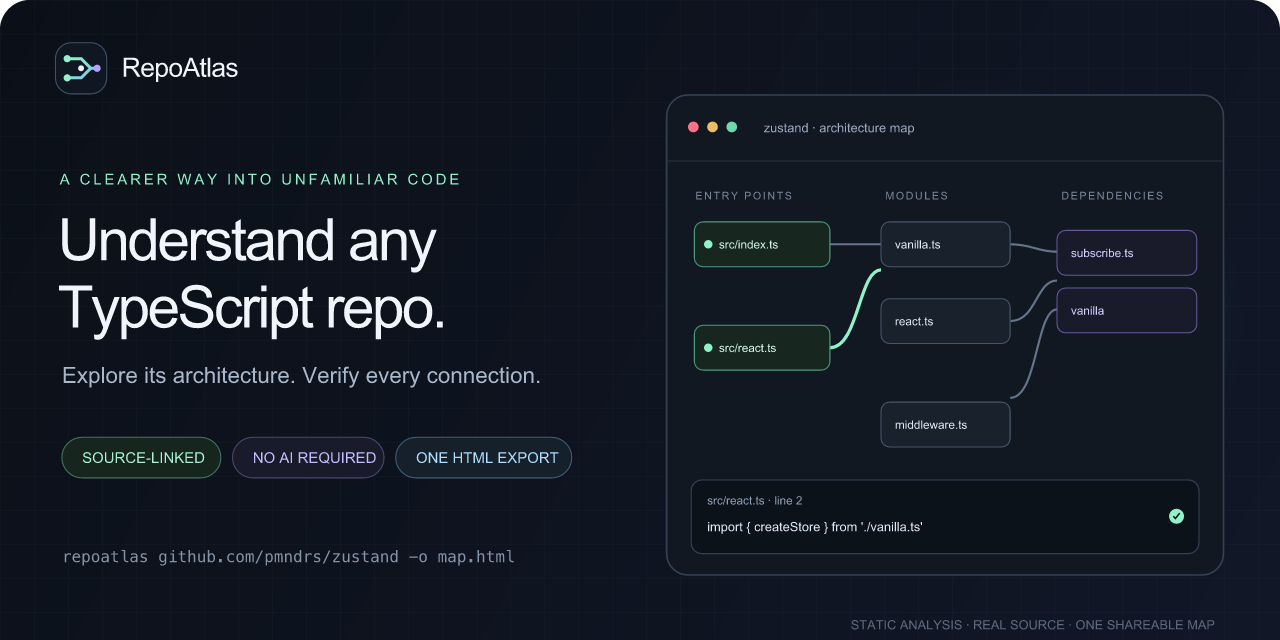
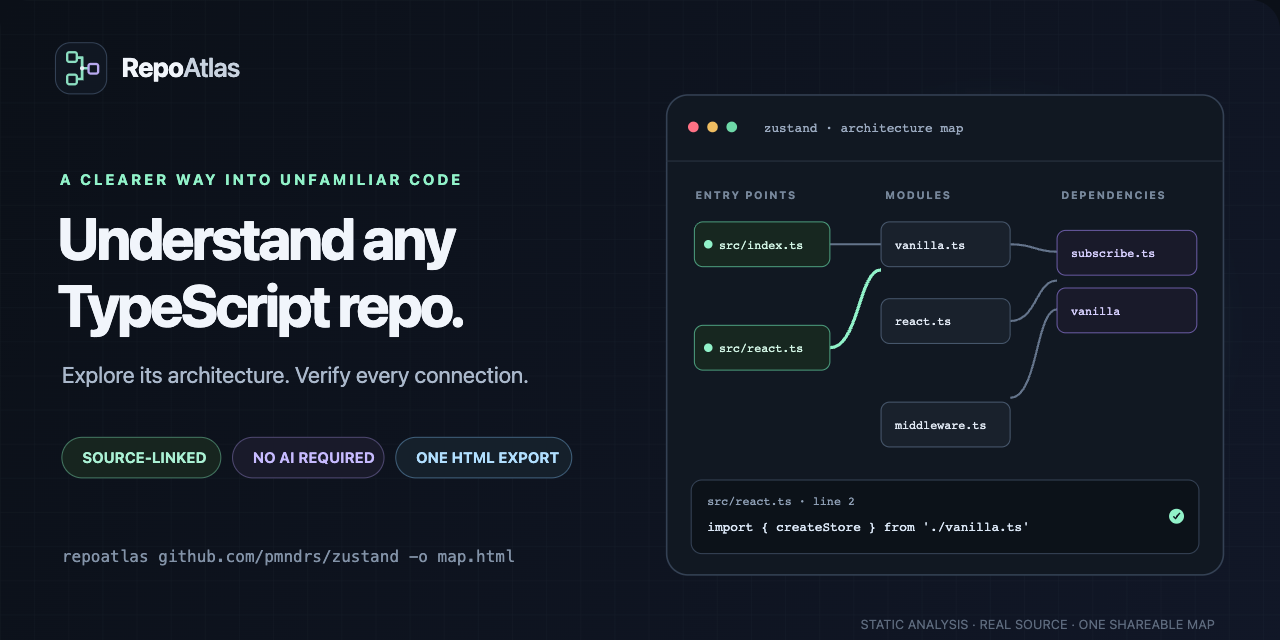
docs: refresh README and replace synthetic product preview (#15)

diff --git a/docs/index.html b/docs/index.html
@@ -24,7 +24,33 @@
     @media(prefers-reduced-motion:reduce){html{scroll-behavior:auto}*,*::before,*::after{transition:none!important}}
   </style>
   <style>
-    .hero{perspective:1200px}.hero-copy{animation:hero-in .8s cubic-bezier(.2,.75,.25,1) both}.hero-visual{position:relative;isolation:isolate;animation:art-in 1s .08s cubic-bezier(.2,.75,.25,1) both;filter:drop-shadow(0 28px 50px #0007)}.hero-visual::before{content:"";position:absolute;z-index:-1;inset:12% 3%;border-radius:50%;background:radial-gradient(ellipse,#76e8bf2a,transparent 68%);filter:blur(25px);animation:aura 7s ease-in-out infinite alternate}.hero-art{display:block;position:relative;transform:rotateY(-5deg) rotateX(2deg);transition:transform .55s cubic-bezier(.2,.75,.25,1),filter .55s;border:1px solid #36485c;border-radius:15px;box-shadow:0 24px 70px #0008}.hero-visual:hover .hero-art{transform:rotateY(0) rotateX(0) translateY(-4px);filter:brightness(1.08)}.float-chip{position:absolute;display:flex;align-items:center;gap:8px;padding:9px 12px;border:1px solid #486356;border-radius:10px;background:#101a20ed;box-shadow:0 12px 32px #0007;color:#d9e8e2;font:11px ui-monospace,SFMono-Regular,Menlo,monospace;backdrop-filter:blur(12px);animation:chip-float 5s ease-in-out infinite}.float-chip b{color:var(--mint);font-weight:650}.chip-edge{top:13%;right:-3%;animation-delay:-1.2s}.chip-map{bottom:13%;left:-4%;border-color:#544c76;background:#171622ed;color:#d8d0ff;animation-delay:-3s}.chip-map b{color:#c5b4ff}.chip-dot,.workflow-status i{width:7px;height:7px;border-radius:50%;background:#8af0bf;box-shadow:0 0 12px #8af0bfaa}.action-section{display:grid;grid-template-columns:.8fr 1.2fr;align-items:center;gap:50px;padding:27px;border:1px solid #293748;border-radius:16px;background:radial-gradient(ellipse at 100% 30%,#24244170,transparent 56%),linear-gradient(135deg,#111a23,#0d131d)}.action-copy h2{max-width:390px;margin:7px 0 12px;font-size:clamp(25px,3vw,36px);line-height:1.12;letter-spacing:-.045em}.action-copy p{max-width:440px;color:var(--muted);font-size:14px}.action-link{display:inline-flex;margin-top:9px;color:var(--mint);font-size:13px}.workflow-card{overflow:hidden;border:1px solid #334154;border-radius:12px;background:#0b1119;box-shadow:0 20px 50px #0004;transform:rotateY(-3deg);transition:transform .4s,border-color .4s}.workflow-card:hover{transform:rotateY(0) translateY(-3px);border-color:#71877c}.workflow-top{display:flex;align-items:center;gap:10px;min-height:40px;padding:0 14px;border-bottom:1px solid #263342;background:#111923;color:#9babc0;font:10px ui-monospace,monospace}.workflow-dots{display:flex;gap:4px}.workflow-dots i{width:6px;height:6px;border-radius:50%;background:#546275}.workflow-status{display:flex;align-items:center;gap:6px;margin-left:auto;color:#a7ddc4}.workflow-status i{width:6px;height:6px}.workflow-card pre{overflow:auto;margin:0;padding:20px;color:#d6e0ee;font:12px/1.9 ui-monospace,SFMono-Regular,Menlo,monospace}.code-purple{color:#c3b5ff}.workflow-foot{display:flex;align-items:center;gap:9px;padding:11px 15px;border-top:1px solid #263342;color:#aebed0;font:10px ui-monospace,monospace}.workflow-foot>span:first-child{color:var(--mint);font-size:15px}.file-size{margin-left:auto;color:#718398}.card,.feature,.callout,.command-section,.closing{animation:rise-in .65s both}.cards .card:nth-child(2){animation-delay:.08s}.cards .card:nth-child(3){animation-delay:.16s}.feature:nth-child(2){animation-delay:.07s}.feature:nth-child(3){animation-delay:.14s}.feature:nth-child(4){animation-delay:.21s}@keyframes hero-in{from{opacity:0;transform:translateY(18px)}to{opacity:1;transform:translateY(0)}}@keyframes art-in{from{opacity:0;transform:translateY(24px) scale(.97)}to{opacity:1;transform:translateY(0) scale(1)}}@keyframes rise-in{from{opacity:0;transform:translateY(12px)}to{opacity:1;transform:translateY(0)}}@keyframes aura{from{opacity:.45;transform:scale(.9)}to{opacity:1;transform:scale(1.08)}}@keyframes chip-float{0%,100%{translate:0 0}50%{translate:0 -7px}}@media(max-width:850px){.action-section{grid-template-columns:1fr;gap:24px}.action-copy h2{max-width:600px}.workflow-card{transform:none}.chip-edge{right:-1%}.chip-map{left:-1%}}@media(max-width:580px){.hero-visual{margin:0 5px 12px}.hero-art{transform:none;border-radius:10px}.float-chip{padding:7px 9px;font-size:9px}.chip-edge{top:7%;right:-3%}.chip-map{bottom:7%;left:-3%}.action-section{padding:20px}.workflow-card pre{padding:16px 12px;font-size:10px}.workflow-foot{font-size:9px}.file-size{font-size:8px}}@media(prefers-reduced-motion:reduce){.hero-copy,.hero-visual,.float-chip,.card,.feature,.callout,.command-section,.closing{animation:none!important}.hero-visual::before{animation:none!important}.hero-art,.workflow-card{transition:none!important;transform:none}.float-chip{translate:0 0}}
+    .hero{perspective:1200px}
+    .hero-copy{animation:hero-in .8s cubic-bezier(.2,.75,.25,1) both}
+    .hero-visual{position:relative;animation:art-in 1s .08s cubic-bezier(.2,.75,.25,1) both}
+    .hero-art{display:block;position:relative;width:100%;border:1px solid #36485c;border-radius:14px;box-shadow:0 24px 60px #0006;transition:transform .4s,filter .4s}
+    .hero-visual:hover .hero-art{transform:translateY(-3px);filter:brightness(1.04)}
+    .action-section{display:grid;grid-template-columns:.8fr 1.2fr;align-items:center;gap:50px;padding:27px;border:1px solid #293748;border-radius:16px;background:radial-gradient(ellipse at 100% 30%,#24244170,transparent 56%),linear-gradient(135deg,#111a23,#0d131d)}
+    .action-copy h2{max-width:390px;margin:7px 0 12px;font-size:clamp(25px,3vw,36px);line-height:1.12;letter-spacing:-.045em}
+    .action-copy p{max-width:440px;color:var(--muted);font-size:14px}
+    .action-link{display:inline-flex;margin-top:9px;color:var(--mint);font-size:13px}
+    .workflow-card{overflow:hidden;border:1px solid #334154;border-radius:12px;background:#0b1119;box-shadow:0 20px 50px #0004;transform:rotateY(-3deg);transition:transform .4s,border-color .4s}
+    .workflow-card:hover{transform:rotateY(0) translateY(-3px);border-color:#71877c}
+    .workflow-top{display:flex;align-items:center;gap:10px;min-height:40px;padding:0 14px;border-bottom:1px solid #263342;background:#111923;color:#9babc0;font:10px ui-monospace,monospace}
+    .workflow-dots{display:flex;gap:4px}.workflow-dots i{width:6px;height:6px;border-radius:50%;background:#546275}
+    .workflow-status{display:flex;align-items:center;gap:6px;margin-left:auto;color:#a7ddc4}.workflow-status i{width:6px;height:6px;border-radius:50%;background:#8af0bf;box-shadow:0 0 12px #8af0bfaa}
+    .workflow-card pre{overflow:auto;margin:0;padding:20px;color:#d6e0ee;font:12px/1.9 ui-monospace,SFMono-Regular,Menlo,monospace}
+    .code-purple{color:#c3b5ff}
+    .workflow-foot{display:flex;align-items:center;gap:9px;padding:11px 15px;border-top:1px solid #263342;color:#aebed0;font:10px ui-monospace,monospace}
+    .workflow-foot>span:first-child{color:var(--mint);font-size:15px}.file-size{margin-left:auto;color:#718398}
+    .card,.feature,.callout,.command-section,.closing{animation:rise-in .65s both}
+    .cards .card:nth-child(2){animation-delay:.08s}.cards .card:nth-child(3){animation-delay:.16s}
+    .feature:nth-child(2){animation-delay:.07s}.feature:nth-child(3){animation-delay:.14s}.feature:nth-child(4){animation-delay:.21s}
+    @keyframes hero-in{from{opacity:0;transform:translateY(18px)}to{opacity:1;transform:translateY(0)}}
+    @keyframes art-in{from{opacity:0;transform:translateY(24px) scale(.97)}to{opacity:1;transform:translateY(0) scale(1)}}
+    @keyframes rise-in{from{opacity:0;transform:translateY(12px)}to{opacity:1;transform:translateY(0)}}
+    @media(max-width:850px){.action-section{grid-template-columns:1fr;gap:24px}.action-copy h2{max-width:600px}.workflow-card{transform:none}}
+    @media(max-width:580px){.hero-visual{margin:0 5px 12px}.hero-art{border-radius:10px}.action-section{padding:20px}.workflow-card pre{padding:16px 12px;font-size:10px}.workflow-foot{font-size:9px}.file-size{font-size:8px}}
+    @media(prefers-reduced-motion:reduce){.hero-copy,.hero-visual,.card,.feature,.callout,.command-section,.closing{animation:none!important}.hero-art,.workflow-card{transition:none!important;transform:none}}
   </style>
 </head>
 <body>
@@ -41,7 +67,7 @@
       <div class="hero-actions"><a class="button primary" href="#make-a-map">Map your repo <span aria-hidden="true">↓</span></a><a class="button" href="examples/zustand.html">Explore a live map <span aria-hidden="true">↗</span></a></div>
       <div class="trustline"><span>One standalone HTML export</span><span>No AI or account</span><span>Source-linked evidence</span></div>
     </div>
-    <div class="hero-visual"><img class="hero-art" src="assets/repoatlas-hero.svg" alt="RepoAtlas shows a selected TypeScript dependency and its source line"><div class="float-chip chip-edge"><span class="chip-dot"></span> import traced <b>line 42</b></div><div class="float-chip chip-map">✦ <b>247</b> modules mapped</div></div>
+    <div class="hero-visual"><img class="hero-art" src="assets/architecture-map-preview.png" alt="Interactive Zustand architecture map with an import selected and its source statement visible"></div>
   </section>
 
   <section id="make-a-map" class="command-section shell" aria-labelledby="command-title">

diff --git a/README.md b/README.md
@@ -1,48 +1,52 @@
-<p align="center">
-  <img src="docs/assets/repoatlas-logo.svg" alt="RepoAtlas" width="286">
-</p>
+<h1 align="center">
+  <img src="docs/assets/repoatlas-logo.svg" alt="RepoAtlas" width="260">
+</h1>
 
-<h3 align="center">See how an unfamiliar TypeScript repo fits together.</h3>
-<p align="center">Explore the modules. Follow a dependency. Check the exact source line behind it.</p>
+<h2 align="center">Map a TypeScript codebase.<br>Trace every connection to source.</h2>
 
-<p align="center">
-  <a href="https://github.com/maximilianfeix/repoatlas/stargazers"><img alt="GitHub stars" src="https://img.shields.io/github/stars/maximilianfeix/repoatlas?style=social"></a>
-  <a href="https://github.com/maximilianfeix/repoatlas/actions/workflows/ci.yml"><img alt="CI status" src="https://img.shields.io/github/actions/workflow/status/maximilianfeix/repoatlas/ci.yml?branch=main&label=tests"></a>
-  <a href="https://github.com/maximilianfeix/repoatlas/blob/main/LICENSE"><img alt="MIT license" src="https://img.shields.io/github/license/maximilianfeix/repoatlas"></a>
-  <img alt="Node.js 22+" src="https://img.shields.io/badge/Node.js-22%2B-43853d?logo=node.js&logoColor=white">
-</p>
+<p align="center">Understand an unfamiliar project through its entry points, modules, and imports. Select any connection to inspect the original code and line.</p>
 
 <p align="center">
-  <a href="https://maximilianfeix.github.io/repoatlas/"><strong>Open the live demo</strong></a> ·
-  <a href="https://maximilianfeix.github.io/repoatlas/#make-a-map">Build a command in the browser</a> ·
-  <a href="#try-a-map">Try a map</a> ·
-  <a href="#make-your-own-map">Make your own map</a> ·
-  <a href="CONTRIBUTING.md">Contribute</a>
+  <a href="https://github.com/maximilianfeix/repoatlas/stargazers"><img alt="GitHub stars" src="https://img.shields.io/github/stars/maximilianfeix/repoatlas?style=flat-square"></a>
+  <a href="https://github.com/maximilianfeix/repoatlas/actions/workflows/ci.yml"><img alt="Tests" src="https://img.shields.io/github/actions/workflow/status/maximilianfeix/repoatlas/ci.yml?branch=main&label=tests&style=flat-square"></a>
+  <a href="https://github.com/maximilianfeix/repoatlas/actions/workflows/codeql.yml"><img alt="CodeQL" src="https://img.shields.io/github/actions/workflow/status/maximilianfeix/repoatlas/codeql.yml?branch=main&label=CodeQL&style=flat-square"></a>
+  <a href="https://github.com/maximilianfeix/repoatlas/blob/main/LICENSE"><img alt="MIT license" src="https://img.shields.io/github/license/maximilianfeix/repoatlas?style=flat-square"></a>
+  <img alt="Node.js 22+" src="https://img.shields.io/badge/Node.js-22%2B-43853d?style=flat-square&logo=node.js&logoColor=white">
 </p>
 
-<p align="center"><img src="docs/assets/repoatlas-hero.svg" alt="An interactive TypeScript dependency map with a selected connection's source code evidence" width="960"></p>
+<p align="center">
+  <a href="https://maximilianfeix.github.io/repoatlas/examples/zustand.html"><strong>Open the interactive demo</strong></a> ·
+  <a href="https://maximilianfeix.github.io/repoatlas/#make-a-map">Build a command</a> ·
+  <a href="#quickstart">Quickstart</a> ·
+  <a href="#github-actions">GitHub Action</a> ·
+  <a href="https://github.com/maximilianfeix/repoatlas/issues">Issues</a>
+</p>
 
-RepoAtlas turns a GitHub repository or local TypeScript project into a **standalone, interactive architecture map**. Its graph is static analysis, not a guess: select an import to inspect the statement, line number, and commit-pinned GitHub source.
+<p align="center">
+  <a href="https://maximilianfeix.github.io/repoatlas/examples/zustand.html"><img src="docs/assets/architecture-map-preview.png" alt="RepoAtlas map of Zustand with the src/index.ts to src/vanilla.ts connection selected and its original export statement and line 1 shown" width="1100"></a>
+</p>
 
-## Make your own map
+RepoAtlas creates a **standalone, interactive architecture map** from a TypeScript project. Unlike a diagram inferred from prose, each internal connection comes from a parsed import and can be checked against its exact source line. The exported HTML works offline and can be shared as one file.
 
-Requires **Node.js 22+** and **Git**. Run this from a terminal:
+## Quickstart
+
+Requires **Node.js 22+** and **Git**. Map a public GitHub repository:
 
 ```sh
 npx --yes --package=github:maximilianfeix/repoatlas -- repoatlas https://github.com/pmndrs/zustand -o zustand-map.html
 ```
 
-Open `zustand-map.html` in a browser. The CLI installs from GitHub on first use; you don't need to clone or build RepoAtlas first. It's not published to the npm registry yet.
+Open `zustand-map.html` in your browser. No clone, account, API key, or global install is needed. For a local checkout, replace the repository URL with its directory:
 
-Replace the repository URL to map another public repo. For a local checkout, pass its directory:
+RepoAtlas currently installs from GitHub; it is not published to the npm registry.
 
 ```sh
 npx --yes --package=github:maximilianfeix/repoatlas -- repoatlas ./my-project -o architecture.html
 ```
 
-## Generate a map in GitHub Actions
+## GitHub Actions
 
-Create a downloadable architecture map whenever your project changes. Add this to `.github/workflows/architecture.yml`:
+Generate a map for every push and download it from the workflow run's **Artifacts** section. Add `.github/workflows/architecture.yml`:
 
 ```yaml
 name: Architecture map
@@ -59,57 +63,51 @@ jobs:
           output: repoatlas-map.html
 ```
 
-Download `repoatlas-map` from the workflow run's **Artifacts** section. Inputs also let you choose a project `path`, `artifact-name`, `retention-days`, and whether to `include-tests`. The action needs no token or write permission. Maps embed source snippets and paths, so treat artifacts from private repositories as source code and restrict artifact access accordingly. The action requires Node.js 22+.
+The action also accepts `path`, `artifact-name`, `retention-days`, and `include-tests`. It needs no token or write permission. Maps embed project paths and source snippets; treat artifacts for private repositories as source code and limit access accordingly.
 
-## Try a map
+## Explore real projects
 
-No install needed for these pinned, shareable examples:
+These maps are pinned to the analyzed source commit and need no install:
 
-| Project | What to explore | Map |
-| --- | --- | --- |
-| **Zustand** · 18 modules, 23 internal connections | Follow a compact state library from its entry points | [Open map ↗](https://maximilianfeix.github.io/repoatlas/examples/zustand.html) |
-| **Ky** · 51 modules, 93 internal connections | Trace an HTTP client through its source folders | [Open map ↗](https://maximilianfeix.github.io/repoatlas/examples/ky.html) |
-| **Hono** · 247 modules, 676 internal connections | Search a larger framework, focus a module, inspect its edges | [Open map ↗](https://maximilianfeix.github.io/repoatlas/examples/hono.html) |
+| Repository | Modules | Connections | Explore |
+| --- | ---: | ---: | --- |
+| [Zustand](https://github.com/pmndrs/zustand) | 18 | 23 | [Open map](https://maximilianfeix.github.io/repoatlas/examples/zustand.html) |
+| [Ky](https://github.com/sindresorhus/ky) | 51 | 93 | [Open map](https://maximilianfeix.github.io/repoatlas/examples/ky.html) |
+| [Hono](https://github.com/honojs/hono) | 247 | 676 | [Open map](https://maximilianfeix.github.io/repoatlas/examples/hono.html) |
 
-The source commit and analysis warnings are recorded in [`docs/examples/manifest.json`](docs/examples/manifest.json). Each map includes its upstream license notice.
+The analyzed commits, warnings, and upstream license notices are listed in [`docs/examples/manifest.json`](docs/examples/manifest.json) and [`THIRD_PARTY_NOTICES.md`](THIRD_PARTY_NOTICES.md).
 
-## Find your way through the graph
+## What you can inspect
 
-- **See the structure:** TypeScript modules, likely entry points, imports, re-exports, and directories.
-- **Follow direct relationships:** imports, type imports, literal dynamic imports, and literal `require` calls.
-- **Focus on one module:** isolate it and its direct importers and dependencies, even in a large project.
-- **Check the evidence:** inspect the original statement and line, then open the pinned source on GitHub.
-- **Keep exploring:** search, filter by directory or entry point, zoom, and navigate with a keyboard.
-- **Share a snapshot:** export one self-contained HTML file; the map works offline.
-- **Use the data elsewhere:** `--json` emits the complete analysis graph for scripts and other tools.
+- **Project shape:** source modules, directories, and likely entry points.
+- **Dependencies:** static imports, re-exports, type imports, literal dynamic imports, and literal `require` calls.
+- **Evidence:** the exact import statement and line, with a commit-pinned GitHub link when the checkout is clean.
+- **Large graphs:** search, directory and entry-point filters, and Focus map for a module's direct neighbors.
+- **Portable output:** one offline HTML file, or the full graph as JSON for other tools.
 
 ```sh
 repoatlas https://github.com/honojs/hono --ref main -o hono-map.html
-repoatlas . --include-tests --json > graph.json
-repoatlas --json doctor
+repoatlas . --include-tests -o project-map.html
+repoatlas . --json > graph.json
 repoatlas --help
 ```
 
-Private repositories use your existing Git credential helper. Credentials are never written into the map. Exports include repository paths and source snippets, so share maps of private projects only with the right people. Existing output files are protected; add `--force` to replace one.
+## Scope and privacy
 
-## What RepoAtlas can and cannot infer
+RepoAtlas performs **static file-dependency analysis**. It does not execute project code, install target dependencies, or infer runtime calls, framework routes, or computed imports. Unresolved and external dependencies remain visible as unresolved or external.
 
-RepoAtlas maps **static file dependencies**. It doesn't execute the target project's code or claim to show runtime calls. Computed imports, framework routing, and dependency injection aren't inferred. Unresolved and external dependencies stay visible as such, rather than being drawn as made-up internal edges.
+Generated directories, declaration files, hidden files, and tests are excluded by default. Use `--include-tests` to include tests and fixtures. Analysis is limited to 5,000 files and 2 MB per source file; the interactive map displays up to 100 matching modules at a time, while JSON retains the full analyzed graph. Local edits disable GitHub source links, but source evidence remains embedded in the HTML.
 
-Generated directories, declaration files, hidden files, and tests are excluded by default. Use `--include-tests` to add tests and fixtures. Analysis is limited to 5,000 files and 2 MB per source file; the map draws up to 100 matching modules at once. Search, filters, and **Focus map** help you inspect larger projects, and JSON retains every analyzed edge.
-
-Local modifications disable GitHub source links because the current files may not match the remote commit. The export still embeds source evidence. Analysis reads files but does not install dependencies or run repository scripts. Symlinks are skipped, file reads stay within the selected directory, and the viewer makes no network requests.
+Repository credentials are not copied into the map. Files are read from the selected directory; symlinks are skipped, reads stay within that directory, and the viewer makes no network requests. Since the map contains source snippets, share private-repository maps only with people who already have access to that code.
 
 <details>
-<summary>TypeScript, security, and compatibility details</summary>
+<summary>Implementation and compatibility notes</summary>
 
-The analyzer uses the TypeScript 6.0 compiler API, pinned at 6.0.3. TypeScript 7 removes the standalone `resolveModuleName` API used here; track [TypeScript 7 compatibility](https://github.com/maximilianfeix/repoatlas/issues/5). Node and bundler module-resolution modes are covered by tests.
-
-The generated viewer uses a hash-based Content Security Policy for its inline scripts and styles. For dependency-resolution caveats, limits, and known gaps, see [open issues](https://github.com/maximilianfeix/repoatlas/issues).
+RepoAtlas requires Node.js 22 or newer and uses the TypeScript 6.0.3 compiler API. TypeScript 7 compatibility is tracked in [issue #5](https://github.com/maximilianfeix/repoatlas/issues/5). The generated viewer uses a hash-based Content Security Policy for its inline scripts and styles. Known limits and requests are tracked in [GitHub Issues](https://github.com/maximilianfeix/repoatlas/issues).
 
 </details>
 
-## Develop and contribute
+## Contribute
 
 ```sh
 git clone https://github.com/maximilianfeix/repoatlas.git
@@ -119,8 +117,8 @@ npm test
 npm run check
 ```
 
-Bug reports, small reproduction repos, and focused improvements are welcome. See [`CONTRIBUTING.md`](CONTRIBUTING.md). RepoAtlas is MIT licensed; example source notices are collected in [`THIRD_PARTY_NOTICES.md`](THIRD_PARTY_NOTICES.md).
+Bug reports and focused improvements are welcome. Start with [`CONTRIBUTING.md`](CONTRIBUTING.md). RepoAtlas is [MIT licensed](LICENSE).
 
 ---
 
-<p align="center">If RepoAtlas helps you get oriented, <a href="https://github.com/maximilianfeix/repoatlas">give it a star</a> so more developers can find it.</p>
+<p align="center">If RepoAtlas helped you understand a codebase, <a href="https://github.com/maximilianfeix/repoatlas">give it a star</a> so more developers can find it.</p>
